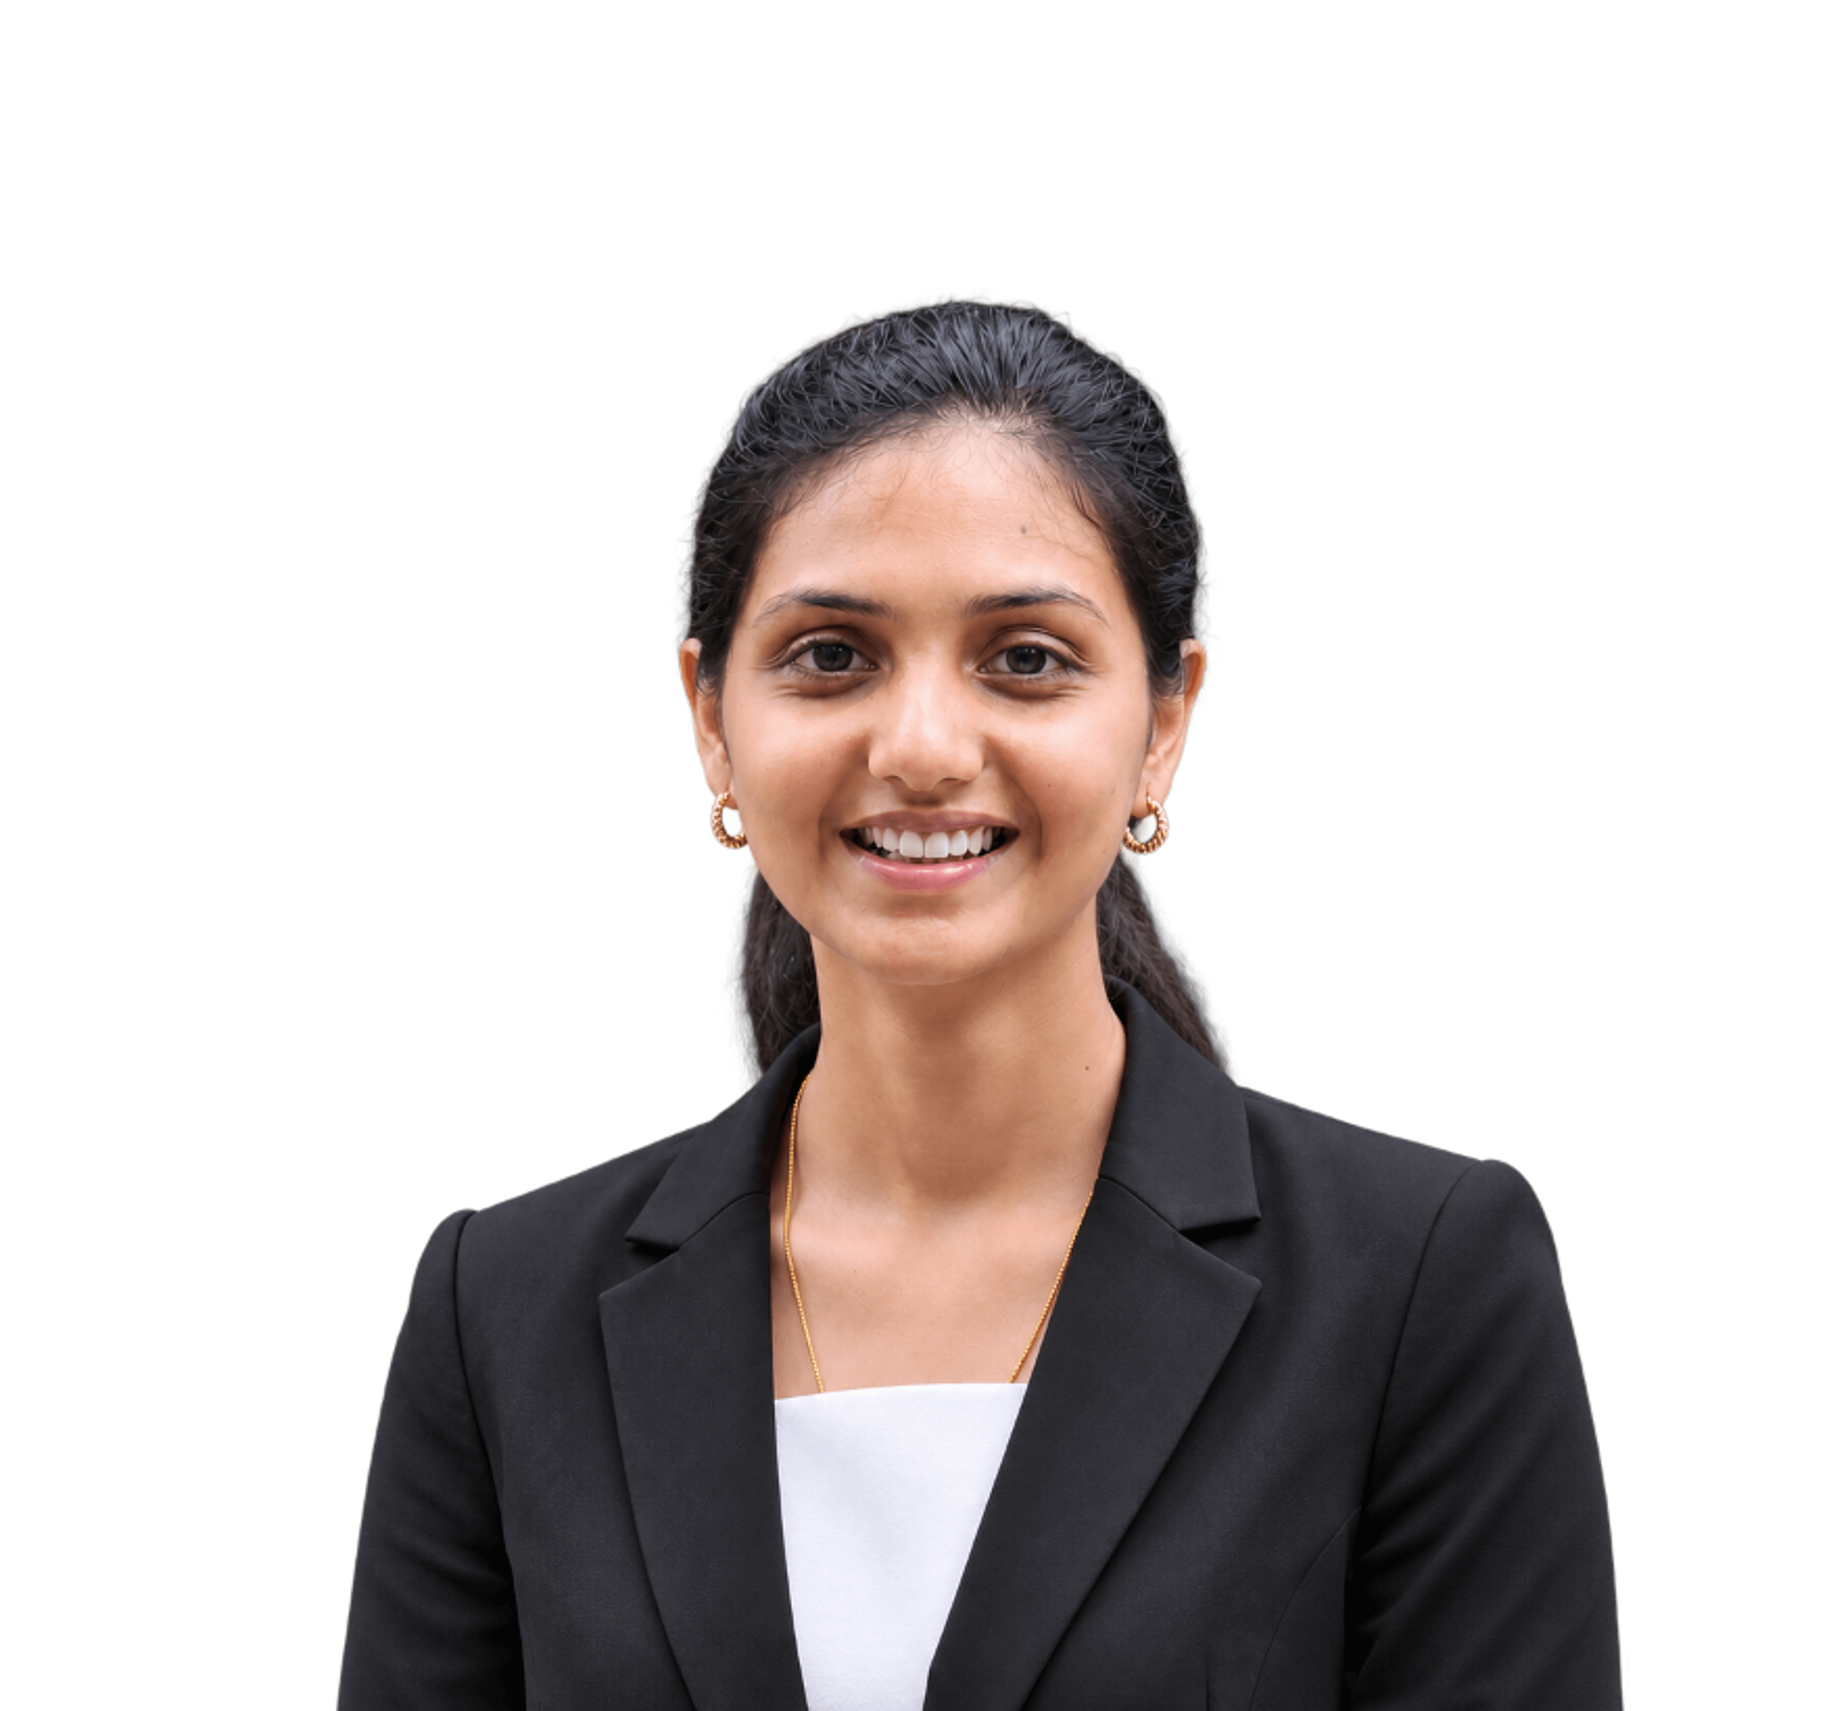
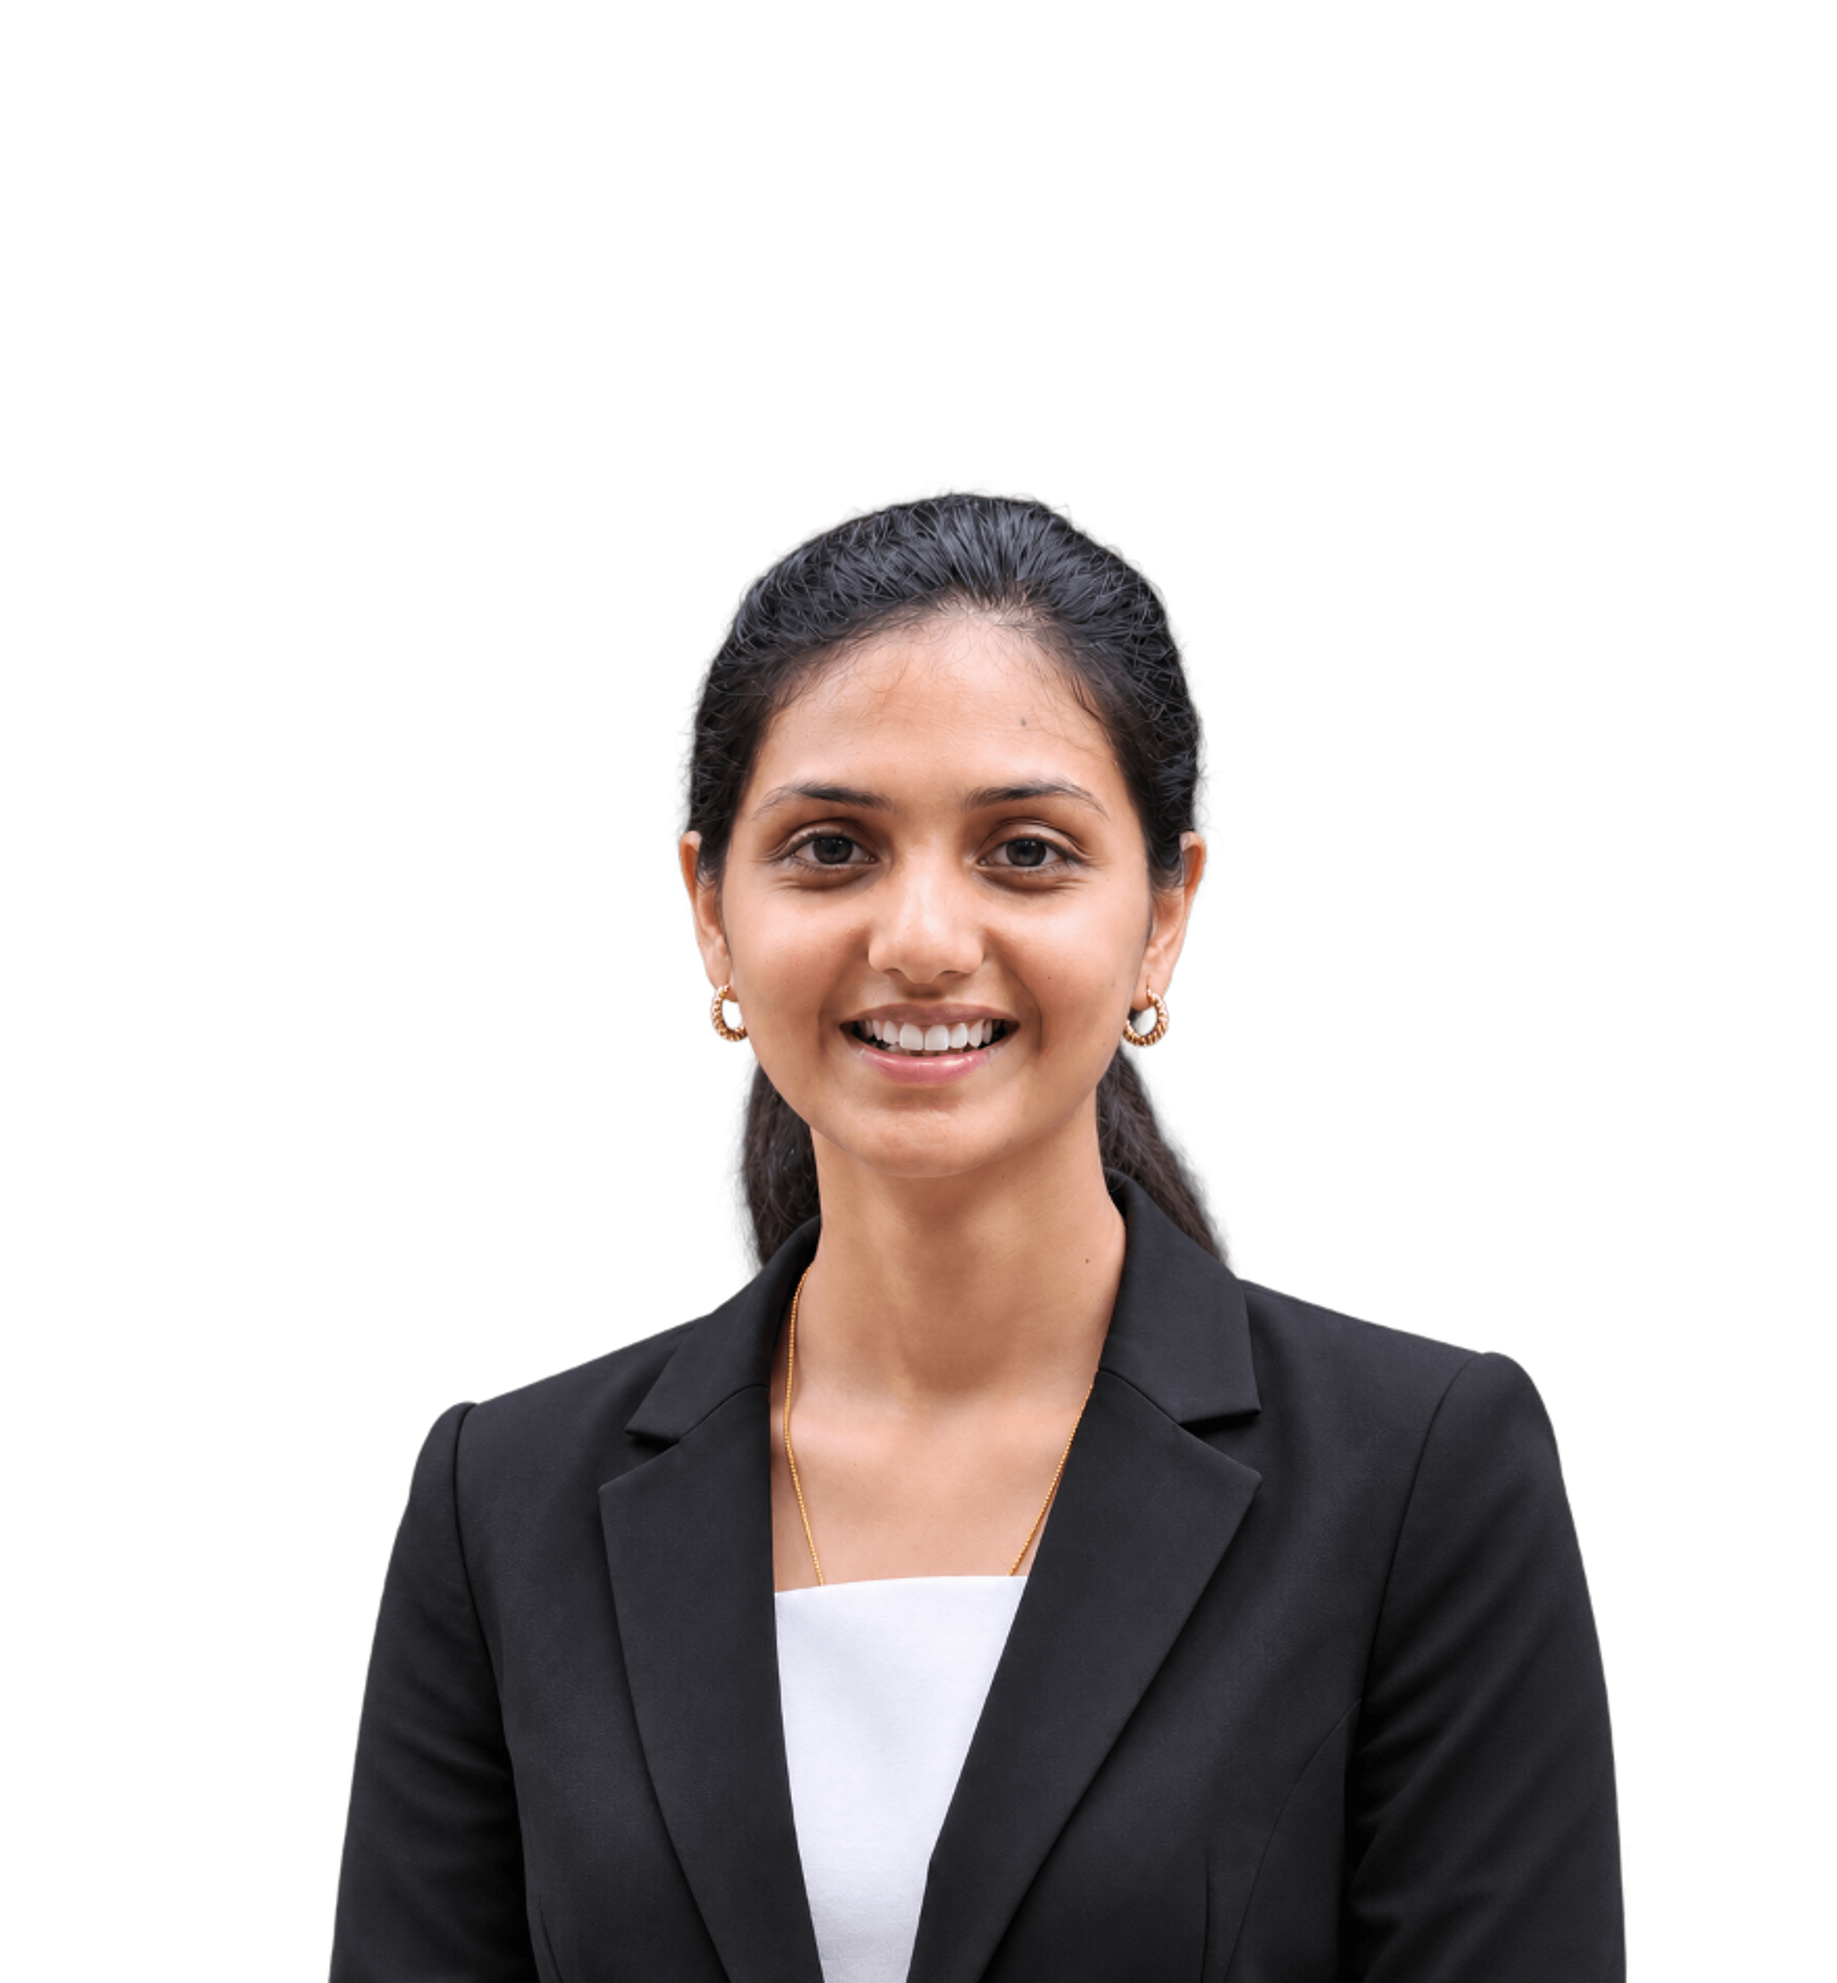
style(hero): move desktop portrait lightly to the bottom and remove top vignette on desktop

diff --git a/components/HeroSection.tsx b/components/HeroSection.tsx
@@ -37,13 +37,13 @@ export default function HeroSection() {
         <div className="hidden lg:block absolute inset-y-0 left-0 w-32 sm:w-64 bg-gradient-to-r from-black via-black/80 to-transparent z-10" />
         {/* Bottom-edge smooth fade into black */}
         <div className="absolute inset-x-0 bottom-0 h-44 bg-gradient-to-t from-black via-black/85 to-transparent z-10" />
-        {/* Top-edge subtle vignette (reduced height to keep hair & face bright and clear) */}
-        <div className="absolute inset-x-0 top-0 h-16 sm:h-20 bg-gradient-to-b from-black/50 via-black/15 to-transparent z-10" />
+        {/* Top-edge subtle vignette (mobile only so desktop portrait stays bright and clear) */}
+        <div className="lg:hidden absolute inset-x-0 top-0 h-16 bg-gradient-to-b from-black/50 via-black/15 to-transparent z-10" />
         {/* Mobile deep gradient overlay: keeps upper face crystal clear, smoothly masks suit to pitch black for text */}
         <div className="lg:hidden absolute inset-0 bg-gradient-to-t from-black via-black/95 via-50% to-transparent z-10" />
 
         {/* Desktop Image */}
-        <div className="hidden lg:block relative w-full h-full">
+        <div className="hidden lg:block relative w-full h-full translate-y-3 lg:translate-y-6">
           <Image
             src="/assets/home/boomiga-desktop.png"
             alt="Boomiga S"
